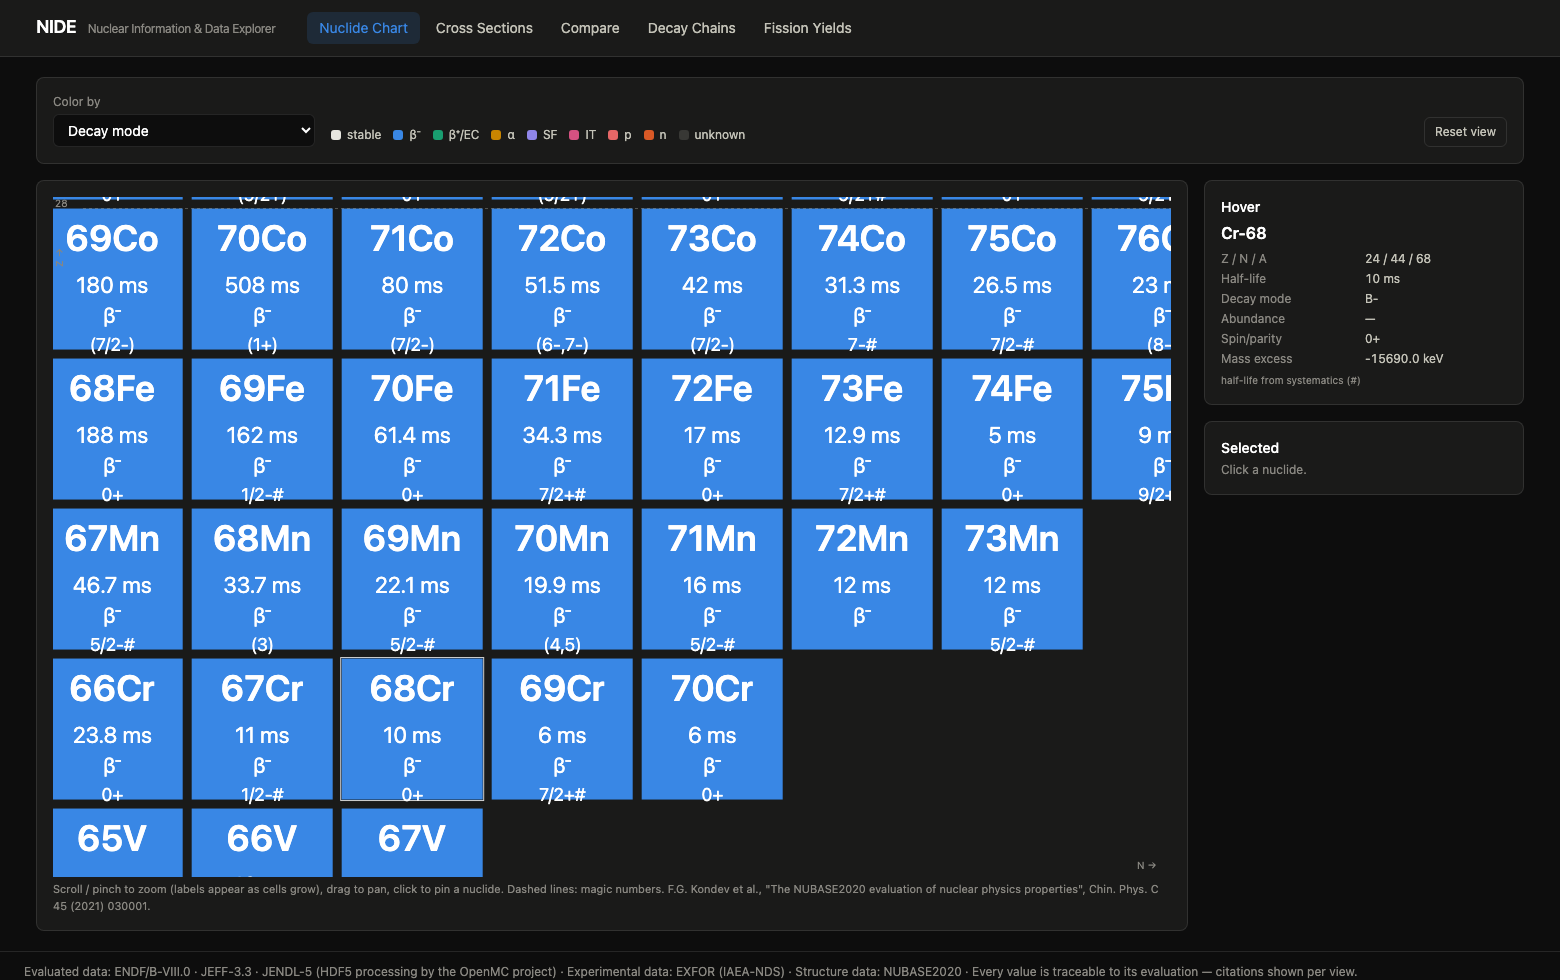
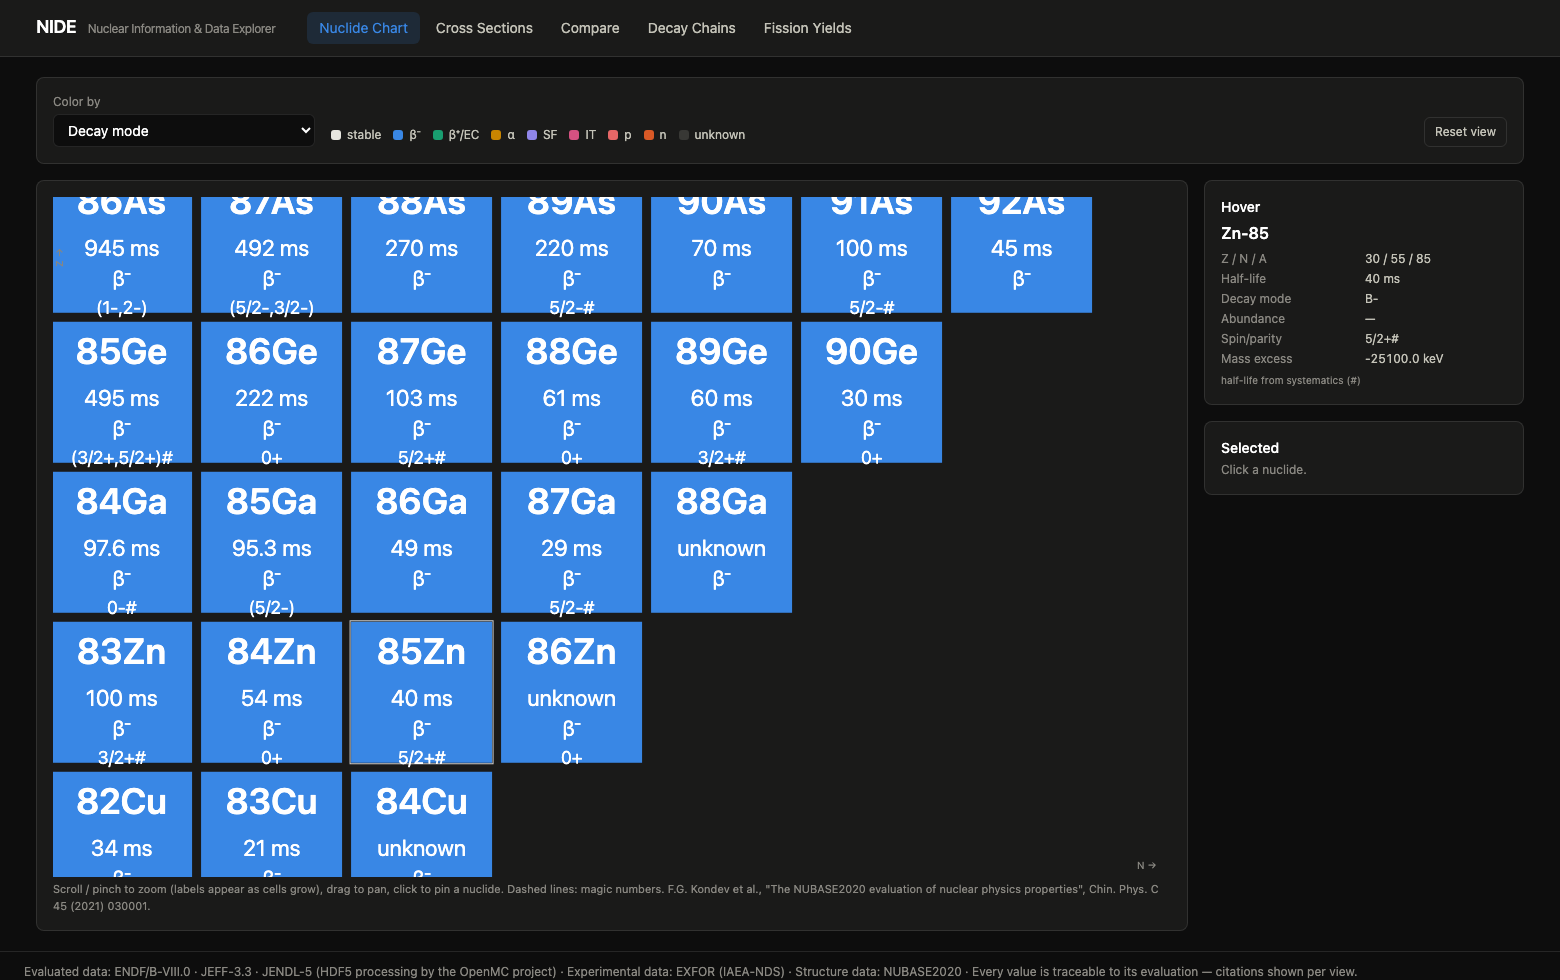
Fix nuclide chart zoom resetting on hover
The initial-fit effect depended on scheduleDraw -> draw -> hover state, so
the first mouse movement after zooming re-ran the effect and snapped the
view back to the full-chart fit. scheduleDraw is now referentially stable
(latest draw via ref) and the initial fit runs exactly once, guarded by a
ref; only the Reset view button refits afterwards. Headless regression test
added (scripts/test-chart-zoom.mjs): after zoom + hover wandering, 60 px
still spans a single cell.

Changed region(s): [[0.0308, 0.1837, 0.8308, 0.8878], [0.8615, 0.3367, 0.8923, 0.3673]]

diff --git a/frontend/src/components/NuclideChart/NuclideChart.tsx b/frontend/src/components/NuclideChart/NuclideChart.tsx
@@ -310,21 +310,36 @@ export default function NuclideChart() {
     }
   }, [nuclides, byCell, cellColor, hover, selected, maxN, maxZ])
 
+  // scheduleDraw must be *referentially stable*: it is a dependency of the
+  // initial-fit and observer effects, and `draw` changes identity on every
+  // hover. If scheduleDraw followed it, the initial-fit effect would re-run
+  // on mouse movement and silently reset the zoom to the full-chart view
+  // (the "chart zooms out by itself" bug). The ref indirection keeps the
+  // callback stable while always invoking the latest draw closure.
+  const drawRef = useRef(draw)
+  useEffect(() => {
+    drawRef.current = draw
+  }, [draw])
   const scheduleDraw = useCallback(() => {
     if (rafPending.current) return
     rafPending.current = true
     requestAnimationFrame(() => {
       rafPending.current = false
-      draw()
+      drawRef.current()
     })
-  }, [draw])
+  }, [])
 
   // Redraw when data / mode / hover / selection change, and on resize.
   useEffect(() => {
     scheduleDraw()
-  }, [scheduleDraw])
+  }, [draw, scheduleDraw])
+  // Fit the view exactly once, when the nuclide data first arrives. The
+  // user's pan/zoom must never be overwritten afterwards except by the
+  // explicit "Reset view" button.
+  const didInitialFit = useRef(false)
   useEffect(() => {
-    if (nuclides.length) {
+    if (nuclides.length && !didInitialFit.current) {
+      didInitialFit.current = true
       view.current = fitView()
       scheduleDraw()
     }